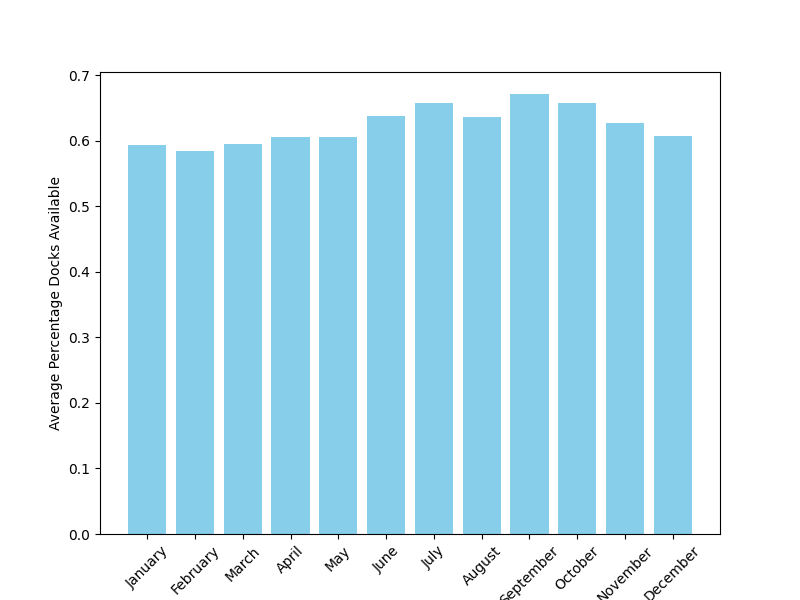
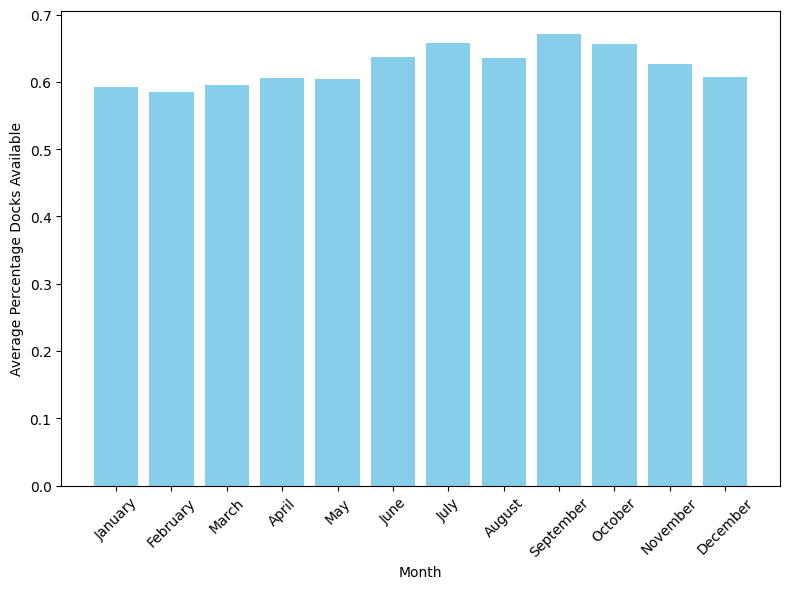
canvis streamlit

diff --git a/streamlit_visualizations.py b/streamlit_visualizations.py
@@ -23,28 +23,40 @@ def average_percentage_docks_available_per_month(df):
     avg_percentage = df.groupby(df['date'].dt.month)['percentage_docks_available'].mean()
     return avg_percentage
 
+def average_percentage_docks_available_by_holiday(df):
+    avg_percentage = df.groupby('festius')['percentage_docks_available'].mean()
+    return avg_percentage
+
+
+def average_percentage_docks_available_by_weekend(df):
+    avg_percentage = df.groupby('is_weekend')['percentage_docks_available'].mean()
+    return avg_percentage
+
 df = load_data("../full_data.csv")
 
 avg_percentage_per_month_year = average_percentage_docks_available_per_month_year(df)
 avg_percentage_per_day_of_week = average_percentage_docks_available_per_day_of_week(df)
 avg_percentage_per_month = average_percentage_docks_available_per_month(df)
+avg_percentage_by_holiday = average_percentage_docks_available_by_holiday(df)
+avg_percentage_by_weekend = average_percentage_docks_available_by_weekend(df)
 
 # Svae path
 results = 'data/results/images/'
-# Plotting
-fig1, ax1 = plt.subplots(figsize=(8, 6))
-ax1.plot(avg_percentage_per_month_year.index, avg_percentage_per_month_year.values, marker='o', color='skyblue')
-ax1.set_xlabel('Date')
-ax1.set_ylabel('Average Percentage Docks Available')
-plt.xticks(rotation=45)
-fig1.savefig(results+"average_percentage_per_month_year.png")
 
-fig2, ax2 = plt.subplots(figsize=(8, 6))
-avg_percentage_per_day_of_week = avg_percentage_per_day_of_week.reindex(list(calendar.day_name))  # Convert to list
-ax2.bar(avg_percentage_per_day_of_week.index, avg_percentage_per_day_of_week.values, color='skyblue')
-ax2.set_xlabel('Day of the Week')
-ax2.set_ylabel('Average Percentage Docks Available')
-fig2.savefig(results+"average_percentage_per_day_of_week.png")
+# Plotting
+#fig1, ax1 = plt.subplots(figsize=(8, 6))
+#ax1.plot(avg_percentage_per_month_year.index, avg_percentage_per_month_year.values, marker='o', color='skyblue')
+#ax1.set_xlabel('Date')
+#ax1.set_ylabel('Average Percentage Docks Available')
+#plt.xticks(rotation=45)
+#fig1.savefig(results+"average_percentage_per_month_year.png")
+
+#fig2, ax2 = plt.subplots(figsize=(8, 6))
+#avg_percentage_per_day_of_week = avg_percentage_per_day_of_week.reindex(list(calendar.day_name))  # Convert to list
+#ax2.bar(avg_percentage_per_day_of_week.index, avg_percentage_per_day_of_week.values, color='skyblue')
+#ax2.set_xlabel('Day of the Week')
+#ax2.set_ylabel('Average Percentage Docks Available')
+#fig2.savefig(results+"average_percentage_per_day_of_week.png")
 
 fig3, ax3 = plt.subplots(figsize=(8, 6))
 ax3.bar(avg_percentage_per_month.index, avg_percentage_per_month.values, color='skyblue')
@@ -52,14 +64,100 @@ ax3.set_xlabel('Month')
 ax3.set_ylabel('Average Percentage Docks Available')
 ax3.set_xticks(range(1, 13))
 ax3.set_xticklabels(calendar.month_name[1:], rotation=45)
-fig3.savefig(results+"average_percentage_per_month.png")
+fig3.tight_layout()  
+fig3.savefig(results+"average_percentage_per_month.png", bbox_inches='tight')
 
-# Pivot table to calculate average docks availability by hour and day
-pivot_table = df.pivot_table(index='hour', columns='day_of_week', values='percentage_docks_available', aggfunc='mean')
+# Plotting average percentage docks available by holiday
+fig4, ax4 = plt.subplots(figsize=(8, 6))
+colors = ['skyblue', 'lightcoral']
+ax4.bar(avg_percentage_by_holiday.index, avg_percentage_by_holiday.values, color=colors)
+ax4.set_xlabel('Holiday (0 = No, 1 = Yes)')
+ax4.set_ylabel('Average Percentage Docks Available')
+ax4.set_ylim(0.56, 0.64)
+ax4.set_xticks([0, 1])
+ax4.set_xticklabels(['No', 'Yes'])
+plt.tight_layout()
+plt.savefig(results+"average_percentage_by_holiday.png", bbox_inches='tight')
 
-# Plotting heatmap
-fig, ax = plt.subplots(figsize=(10, 8))
-sns.heatmap(pivot_table, cmap='YlGnBu', annot=True, fmt='.1f', cbar_kws={'label': 'Average Percentage Docks Available'}, ax=ax)
-ax.set_xlabel('Day of the Week')
-ax.set_ylabel('Hour of the Day')
-fig.savefig(results+"average_percentage_by_hour_and_day.png")
+
+fig, ax = plt.subplots(figsize=(8, 6))
+colors = ['skyblue', 'lightcoral']
+ax.bar(avg_percentage_by_weekend.index, avg_percentage_by_weekend.values, color=colors)
+ax.set_xlabel('Weekend (1) vs Weekday (0)')
+ax.set_ylabel('Average Percentage Docks Available')
+ax.set_ylim(0.56, 0.64)
+ax.set_xticks([0, 1])
+ax.set_xticklabels(['Weekday', 'Weekend'])
+plt.tight_layout()
+plt.savefig(results+"average_percentage_by_weekend.png", bbox_inches='tight')
+
+
+## Pivot table to calculate average docks availability by hour and day
+#pivot_table = df.pivot_table(index='hour', columns='day_of_week', values='percentage_docks_available', aggfunc='mean')
+#
+## Plotting heatmap
+#fig, ax = plt.subplots(figsize=(10, 8))
+#sns.heatmap(pivot_table, cmap='YlGnBu', annot=True, fmt='.1f', cbar_kws={'label': 'Average Percentage Docks Available'}, ax=ax)
+#ax.set_xlabel('Day of the Week')
+#ax.set_ylabel('Hour of the Day')
+#fig.savefig(results+"average_percentage_by_hour_and_day.png")
+
+## Seasonal Trends
+#df['date'] = pd.to_datetime(df[['year', 'month', 'day']])
+#df['season'] = df['date'].dt.month % 12 // 3 + 1
+#seasonal_trends = df.groupby('season')['percentage_docks_available'].mean()
+#
+#fig, ax = plt.subplots()
+#ax.bar(seasonal_trends.index, seasonal_trends.values, color='skyblue')
+#ax.set_xlabel('Estació')
+#ax.set_ylabel('Average Percentage Docks Available')
+#ax.set_xticks([1, 2, 3, 4])
+#ax.set_xticklabels(['Hivern', 'Primavera', 'Estiu', 'Tardor'])
+#plt.savefig(results+"seasonal_trends.png")
+
+# Weather Impact
+#fig, (ax1, ax2) = plt.subplots(1, 2, figsize=(14, 6))
+#
+#sns.scatterplot(x='mm_precip', y='percentage_docks_available', data=df, ax=ax1)
+#ax1.set_xlabel('Precipitation (mm)')
+#ax1.set_ylabel('Percentage Docks Available')
+#
+#sns.scatterplot(x='temperature', y='percentage_docks_available', data=df, ax=ax2)
+#ax2.set_xlabel('Temperature')
+#ax2.set_ylabel('Percentage Docks Available')
+#
+#plt.savefig(results+"weather_impact.png")
+#
+## Geospatial Analysis
+#plt.figure(figsize=(10, 6))
+#plt.scatter(df['lon'], df['lat'], c=df['percentage_docks_available'], cmap='coolwarm', alpha=0.5)
+#plt.colorbar(label='Percentage Docks Available')
+#plt.xlabel('Longitude')
+#plt.ylabel('Latitude')
+#plt.savefig(results+"geospatial_distribution.png")
+#
+# Correlation Matrix
+# Calculate the correlation matrix
+corr_matrix = df[['percentage_docks_available', 'capacity', 'mm_precip', 'temperature', 'rating']].corr()
+
+plt.figure(figsize=(10, 8))  # Adjusted the figure size to give more room
+sns.heatmap(corr_matrix, annot=True, cmap='coolwarm', fmt='.2f')
+
+plt.xticks(rotation=45, ha='right')
+plt.yticks(rotation=0) 
+
+plt.tight_layout()  
+plt.savefig(results+"correlation_matrix.png")
+
+# Categorize precipitation into no rain (0 mm) and rain (> 0 mm)
+#df['precip_category'] = df['mm_precip'].apply(lambda x: 'No Rain' if x == 0 else 'Rain')
+#
+## Plot the impact of precipitation categories on dock availability
+#fig, ax1 = plt.subplots(figsize=(8, 6))
+#
+#sns.boxplot(x='precip_category', y='percentage_docks_available', data=df, ax=ax1)
+#ax1.set_xlabel('Precipitation Category')
+#ax1.set_ylabel('Percentage Docks Available')
+#
+#plt.tight_layout()
+#plt.savefig(results+"weather_impact_comparison.png")

diff --git a/visualization/pages/Analysis_by_time.py b/visualization/pages/Analysis_by_time.py
@@ -1,0 +1,37 @@
+import streamlit as st
+from PIL import Image
+
+# Streamlit configuration
+st.set_page_config(
+    page_title="Data Analysis by Time",
+    page_icon="⌛",
+)
+
+st.title("Data Analysis by Time ⌛")
+
+# Display plots
+results = 'data/results/images/'
+st.header("Average Percentage Docks Available per ...")
+st.subheader("Docks Available per Month and Year")
+img1 = Image.open(results+"average_percentage_per_month_year.png")
+st.image(img1)
+
+st.subheader("Docks Available per Day of the Week")
+img2 = Image.open(results+"average_percentage_per_day_of_week.png")
+st.image(img2)
+
+st.subheader("Docks Available per Month (All Years)")
+img3 = Image.open(results+"average_percentage_per_month.png")
+st.image(img3)
+
+st.subheader("Docks Available by Hour and Day of the Week")
+img4 = Image.open(results+"average_percentage_by_hour_and_day.png")
+st.image(img4)
+
+st.subheader("Docks Available working day vs holiday")
+img5 = Image.open(results+"average_percentage_by_holiday.png")
+st.image(img5)
+
+st.subheader("Docks Available Weekday vs Weekend")
+img6 = Image.open(results+"average_percentage_by_weekend.png")
+st.image(img6)

diff --git a/visualization/pages/Analysis_by_weather.py b/visualization/pages/Analysis_by_weather.py
@@ -1,0 +1,24 @@
+import streamlit as st
+from PIL import Image
+
+# Streamlit configuration
+st.set_page_config(
+    page_title="Data Analysis by Weather",
+    page_icon="🍂",
+)
+
+st.title("Data Analysis by Weather 🍂")
+
+# Display plots
+results = 'data/results/images/'
+st.header("Seasonal trends")
+img1 = Image.open(results+"seasonal_trends.png")
+st.image(img1)
+
+st.header("Impact of Precipitation on Docks Availability")
+img2 = Image.open(results+"weather_impact_comparison.png")
+st.image(img2)
+
+st.header("Correlation matrix")
+img3 = Image.open(results+"correlation_matrix.png")
+st.image(img3)

diff --git a/visualization/pages/Analysis_by_postcode.py b/visualization/pages/Analysis_by_postcode.py
@@ -18,6 +18,14 @@ colormap = cm.LinearColormap(colors=['red', 'white'], vmin=0, vmax=1)
 def get_color(percentage):
     return colormap(percentage)
 
+st.set_page_config(
+    page_title="Data Analysis by Postcode",
+    page_icon="📍",
+)
+
+st.title("Data Analysis by Postcode 📍")
+
+
 df = load_data("../full_data.csv")
 st.write("Data loaded.")
 
